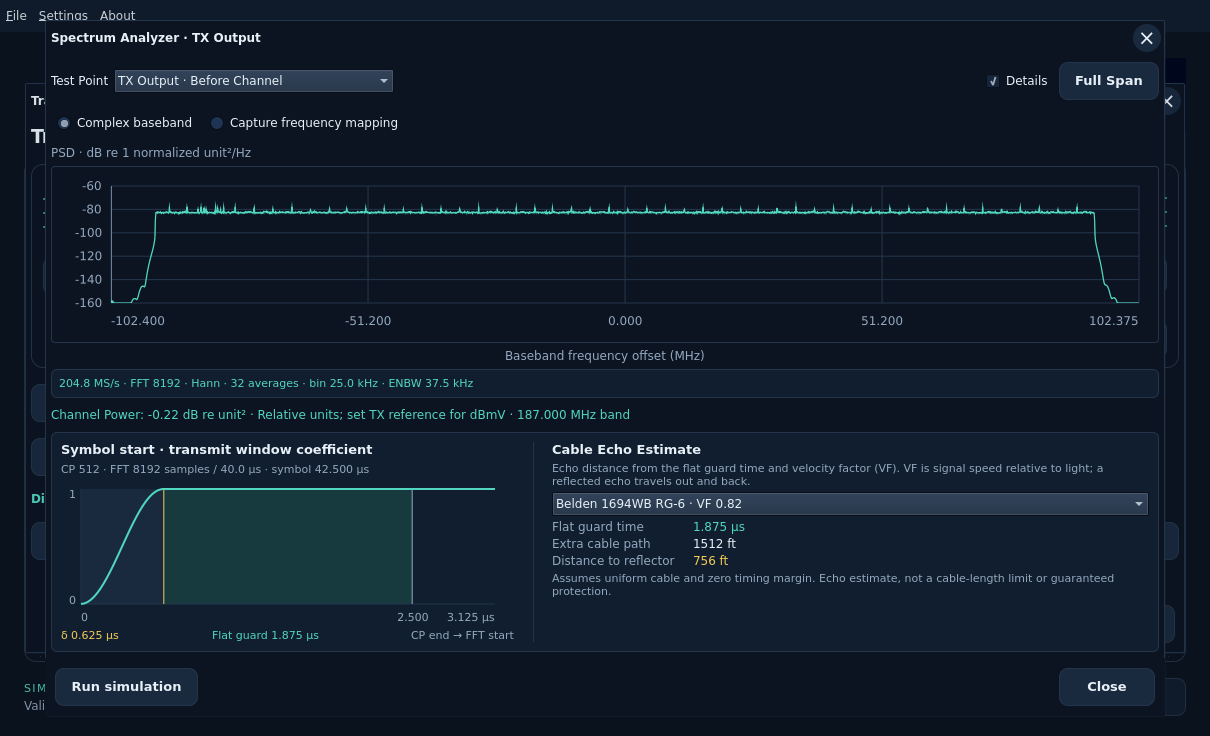
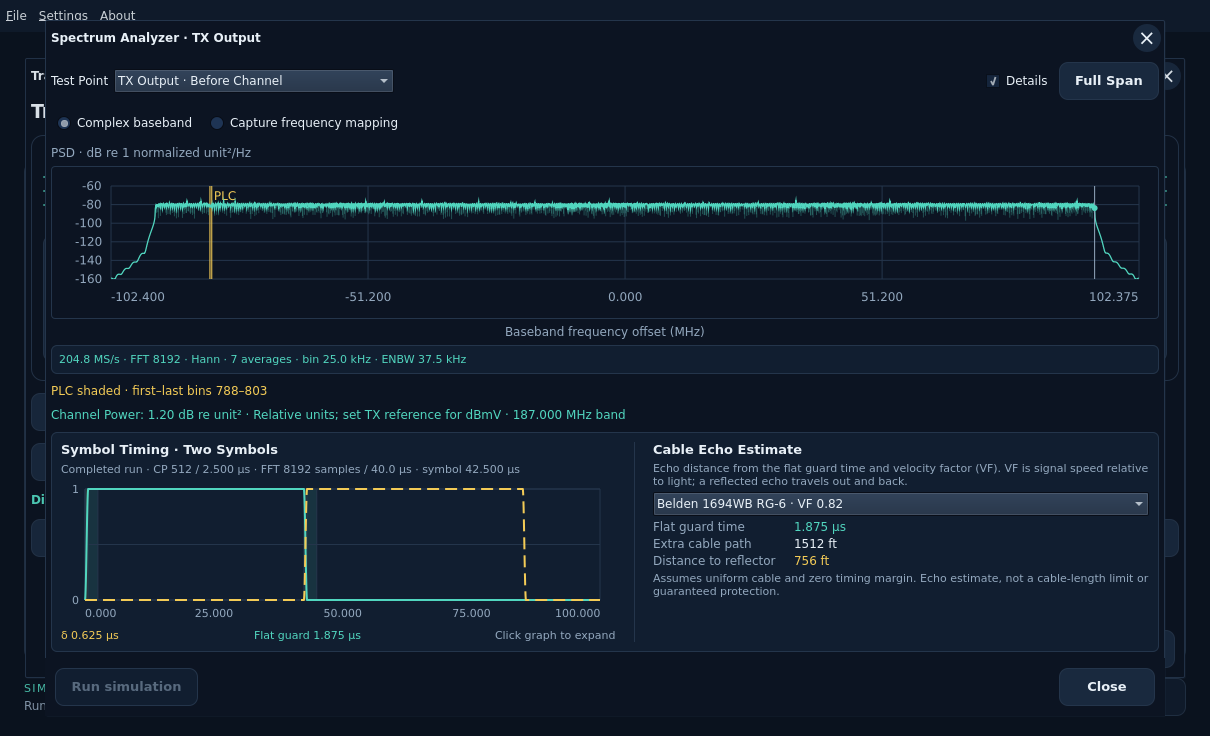
Documentation: Refresh README screenshots - Add RxMER Designer and center gallery titles - Replace obsolete images with native captures - Update shared user-guide images and captions - Tests: Validate six PNGs and 108 relative links

diff --git a/README.md b/README.md
@@ -39,25 +39,27 @@ Example inputs: [CLI requests and use cases](examples/cli/README.md) ·
 ## Workbench overview
 
 <p align="center">
-  <picture>
-    <source media="(prefers-color-scheme: dark)" srcset="docs/images/logo/merlin-toolkit-diagram-dark.png">
-    <source media="(prefers-color-scheme: light)" srcset="docs/images/logo/merlin-toolkit-diagram-light.png">
-    <img src="docs/images/logo/merlin-toolkit-diagram-light.png" alt="MERLIN workbench: OCD and DPD configure the transmitter; RxMER and DS channel estimates feed the channel and receiver; PRBS source data is recovered at PRBS-RX." width="1100">
-  </picture>
+  <a href="docs/user/workbench.md"><img src="docs/images/workbench/readme-workbench-dark.png" alt="Current MERLIN workbench with transmitter, channel, receiver and measurement inputs" width="1100"></a>
 </p>
 
-Illustrated system overview. See the [workbench guide](docs/user/workbench.md)
-for native UI screenshots, configuration and test-point instruments.
+Actual native workbench. See the [workbench guide](docs/user/workbench.md)
+for configuration and test-point instruments.
 
-## Signal analyzers
+## Signal analyzers and RxMER Designer
 
 Actual native UI captures. Select an image to open its guide.
 
 | Spectrum Analyzer | QAM Analyzer |
-| --- | --- |
-| [<img src="docs/images/workbench/sa-tx-baseband-dark.png" alt="OFDM spectrum with symbol timing and cable echo estimate" width="520">](docs/user/spectrum-analyzer.md) | [<img src="docs/images/workbench/transmitter-qam-dark.png" alt="Transmitter QAM constellation from captured mapped I/Q" width="520">](docs/user/transmitter-workbench.md) |
+| :---: | :---: |
+| [<img src="docs/images/workbench/sa-tx-baseband-dark.png" alt="OFDM spectrum with PLC shading, symbol timing and cable echo estimate" width="520">](docs/user/spectrum-analyzer.md) | [<img src="docs/images/workbench/receiver-qam-mer-dark.png" alt="Paired raw and equalized receiver constellations with calculated MER" width="520">](docs/user/receiver-workbench.md#qam-analyzer-and-retained-selectors) |
 | **Channel Response / Echo** | **RxMER** |
-| [<img src="docs/images/workbench/receiver-response-dark.png" alt="Receiver-estimated impulse response showing delayed channel energy" width="520">](docs/user/receiver-workbench.md#channel-response-and-echo) | [<img src="docs/images/workbench/rxmer-single-dark.png" alt="Measured RxMER versus subcarrier frequency" width="520">](docs/user/channel-measurements.md#rxmer-captures) |
+| [<img src="docs/images/workbench/receiver-response-dark.png" alt="Pilot-estimated channel impulse response" width="520">](docs/user/receiver-workbench.md#channel-response-and-echo) | [<img src="docs/images/workbench/rxmer-single-dark.png" alt="Loaded RxMER capture with PLC region and playback controls" width="520">](docs/user/channel-measurements.md#rxmer-captures) |
+
+<h3 align="center">RxMER Designer</h3>
+
+<p align="center">
+  <a href="docs/user/measurement-inputs/rxmer-designer.md"><img src="docs/images/workbench/rxmer-designer-dark.png" alt="RxMER Designer preview with tilt, ripple, a synthetic notch and PLC shading" width="1100"></a>
+</p>
 
 ## Measurements and demos
 

diff --git a/docs/development/features/readme-workbench-diagram/design.md b/docs/development/features/readme-workbench-diagram/design.md
@@ -1,5 +1,8 @@
 # DOC-BRAND-01: Theme-aware README workbench diagram
 
+Historical implementation, superseded by DOC-BRAND-05 below. The original
+illustrated overview assets have been removed in favor of native captures.
+
 Add the supplied `docs/images/logo/merlin-toolkit-diagram-dark.png` to README
 with a matching light PNG selected by a standard picture element. Preserve the
 dark original bytes and both images' aspect ratios; use a responsive1100px
@@ -59,3 +62,27 @@ Each thumbnail opens its instrument guide. Keep captions short and identify the
 images as actual native UI captures. No UI source or processing behavior changes.
 Validate image integrity, local paths, heading anchors and diff whitespace; no
 compilation or runtime tests are needed for reusing unchanged screenshots.
+
+## DOC-BRAND-05: Refresh the native screenshot gallery
+
+Replace the illustrated overview with a current native workbench capture,
+refresh the four analyzer images, and add RxMER Designer linked to its guide.
+Center the gallery titles above their images. Capture the built Qt application
+on the local Linux desktop using the shipped single-capture workbench; preserve
+the captured pixels and keep staging scripts/output under ignored local/.
+Replace shared analyzer assets in place so user-guide links stay valid;
+replace the retired transmitter QAM thumbnail with the paired receiver view,
+and remove obsolete illustrated overview files after checking references.
+Validation covers visual review, image decoding, maintained relative links and
+diff whitespace. No application code or full automated test suite is involved.
+
+Completed with six unedited 1210×736 native Linux/X11 captures from the current
+built Qt executable. The shipped single example completed all four profiles;
+the retained latest profile compared 1,779,000 bits with zero errors. The
+Designer screenshot previews a new flat 50-capture sequence with −4 dB tilt,
+2 dB ripple and an 18 dB synthetic notch. Draft edits were cancelled; no
+workbench or capture input files were saved. The two illustrated overview PNGs
+and retired TX QAM thumbnail were removed, and shared user-guide assets were
+replaced in place. Architecture ownership is unchanged. Image decoding,
+README/affected guide links, centered gallery markup and diff whitespace pass.
+The full automated suite was not run for this documentation-only refresh.

diff --git a/docs/development/features/user-guide-captures/design.md b/docs/development/features/user-guide-captures/design.md
@@ -76,7 +76,7 @@ No source changed and no build or automated simulation suite was run.
 | [transmitter-message-bytes-dark.png](../../../images/workbench/transmitter-message-bytes-dark.png) | Refreshed native capture |
 | [transmitter-messages-dark.png](../../../images/workbench/transmitter-messages-dark.png) | Refreshed native capture |
 | [transmitter-output-sa-dark.png](../../../images/workbench/transmitter-output-sa-dark.png) | Current native capture retained |
-| [transmitter-qam-dark.png](../../../images/workbench/transmitter-qam-dark.png) | Refreshed native capture |
+| [receiver-qam-mer-dark.png](../../../images/workbench/receiver-qam-mer-dark.png) | Paired receiver view replaces the retired TX thumbnail |
 | [transmitter-stage-dark.png](../../../images/workbench/transmitter-stage-dark.png) | Refreshed native capture |
 | [transmitter-workbench-dark.png](../../../images/workbench/transmitter-workbench-dark.png) | Refreshed native capture |
 | [verification-results-dark.png](../../../images/workbench/verification-results-dark.png) | Refreshed native capture |

diff --git a/docs/user/measurement-inputs/rxmer-designer.md b/docs/user/measurement-inputs/rxmer-designer.md
@@ -5,7 +5,10 @@ loaded captures or choose **New flat sequence**. The flat sequence uses the exac
 profile grid and keeps excluded carriers unavailable. Its profile epoch is only
 an association anchor; it is not a measured acquisition time.
 
-![RxMER Designer with a continuous PLC region](../../images/workbench/rxmer-designer-dark.png)
+![RxMER Designer with tilt, ripple, a synthetic notch and PLC shading](../../images/workbench/rxmer-designer-dark.png)
+
+The preview above shows a new flat sequence with 50 captures and tilt, ripple
+and a synthetic notch enabled for all captures.
 
 Enable the effects you need. When **RxMER tilt** is unchecked, its value,
 arrows, direction button and capture-range controls are disabled. Their settings

diff --git a/docs/development/checklist.md b/docs/development/checklist.md
@@ -907,6 +907,10 @@ integration. It does not mean all the broader product items above are complete.
 
 ### Repository introduction
 
+- [x] **DOC-BRAND-05** Refresh the native README overview/analyzers, add
+  RxMER Designer, center gallery titles and remove obsolete image assets.
+  [Design](features/readme-workbench-diagram/design.md#doc-brand-05-refresh-the-native-screenshot-gallery).
+
 - [x] **DOC-BRAND-04** Link current SA, QAM, response/echo and RxMER
   screenshots from a compact README analyzer gallery.
   [Design](features/readme-workbench-diagram/design.md#doc-brand-04-analyzer-gallery).

diff --git a/docs/user/channel-measurements.md b/docs/user/channel-measurements.md
@@ -48,7 +48,7 @@ Expand a tree row for identity, frequency, capture time, format and original has
 Select a row to inspect its original values, or **Effective RxMER / playback**
 to inspect the proposed combination. Duplicate byte-identical files reject.
 
-![Single Shot selection from a loaded collection](../images/workbench/rxmer-single-dark.png)
+![Single Shot RxMER capture with PLC shading](../images/workbench/rxmer-single-dark.png)
 
 | Mode | Effective model |
 | --- | --- |
